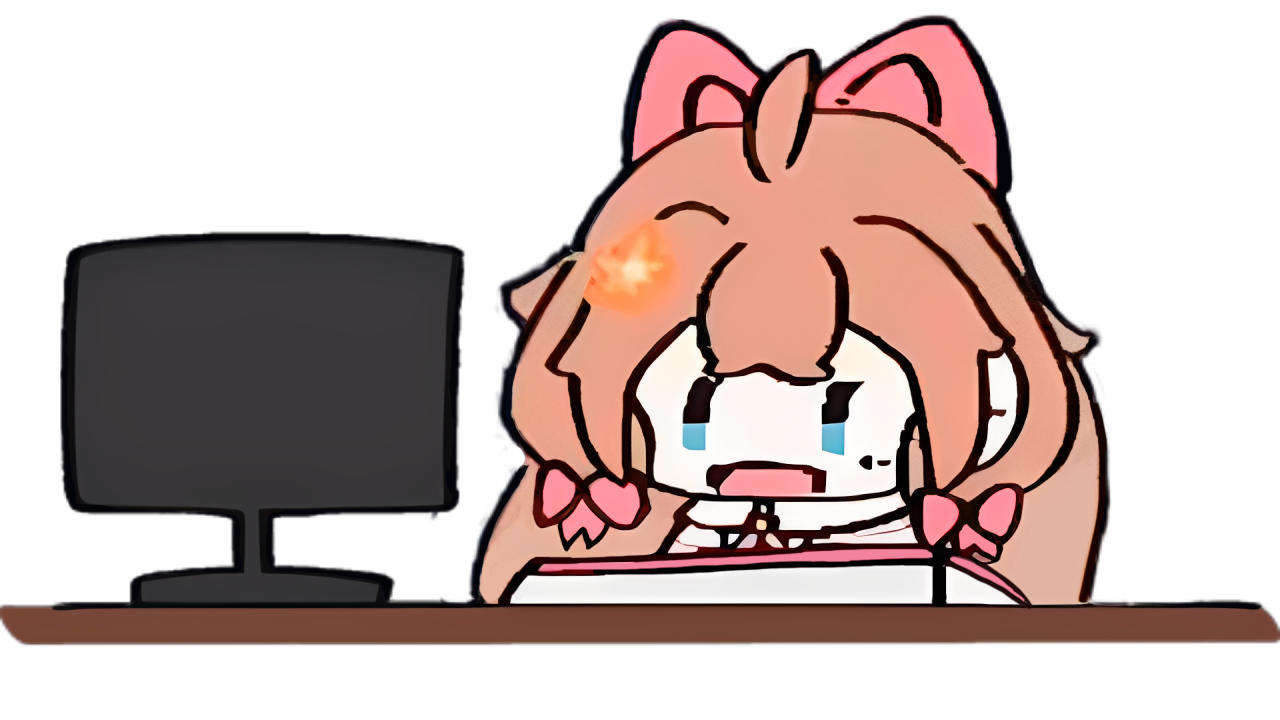
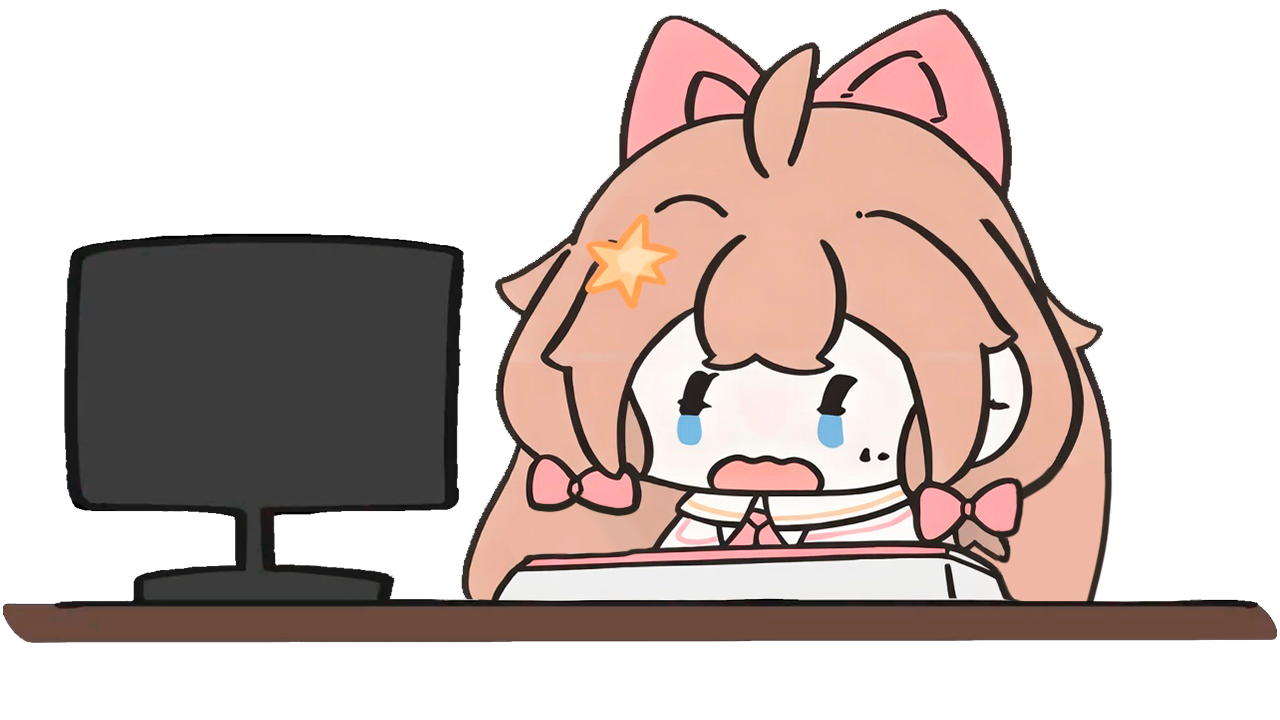
修复bug、优化图像

diff --git a/main.py b/main.py
@@ -442,15 +442,8 @@ class ASoulLittleBun(QOpenGLWidget):
         # 更新鼠标跟踪器设置
         self.mouse_tracker.update_settings(self.settings)
         
-        # 更新按键显示设置
-        self.keypress_display_label.setStyleSheet(
-            f"color: white; "
-            f"background-color: rgba(0, 0, 0, 150); "
-            f"padding: 5px; "
-            f"border-radius: 5px; "
-            f"font-size: {self.settings.get('keypress_display_font_size', 16)}px; "
-            f"font-weight: bold;"
-        )
+        # 更新按键显示样式（根据背景开关设置）
+        self._update_keypress_display_style()
         self.keypress_display_label.setGeometry(
             self.settings.get('keypress_display_x', 10),
             self.settings.get('keypress_display_y', 10),

diff --git a/changelogs/v1.3.1.md b/changelogs/v1.3.1.md
@@ -1,0 +1,21 @@
+# 版本 1.3.1 小版本更新日志
+
+## 修复
+- 修复了进入设置后按键背景显示开关失效的问题
+
+## 优化
+- 将嘉然的角色图像替换为了更清晰的素材
+
+在此感谢
+
+Rakouki(https://space.bilibili.com/13936751)
+枭也Owlet(https://space.bilibili.com/291042528)
+处难不难处(https://space.bilibili.com/387485734)
+
+等小伙伴提供的清晰素材！
+
+目前版本自动更新将会替换掉所有默认角色的配置，您的配置将备份在同目录的备份文件夹中
+
+**下载地址：**
+- GitHub: https://github.com/Evelynall/ASoul-Little-Bun/releases/
+- 蓝奏云: https://evelynal.lanzoum.com/b0j1b6kdg (密码: asoul)
